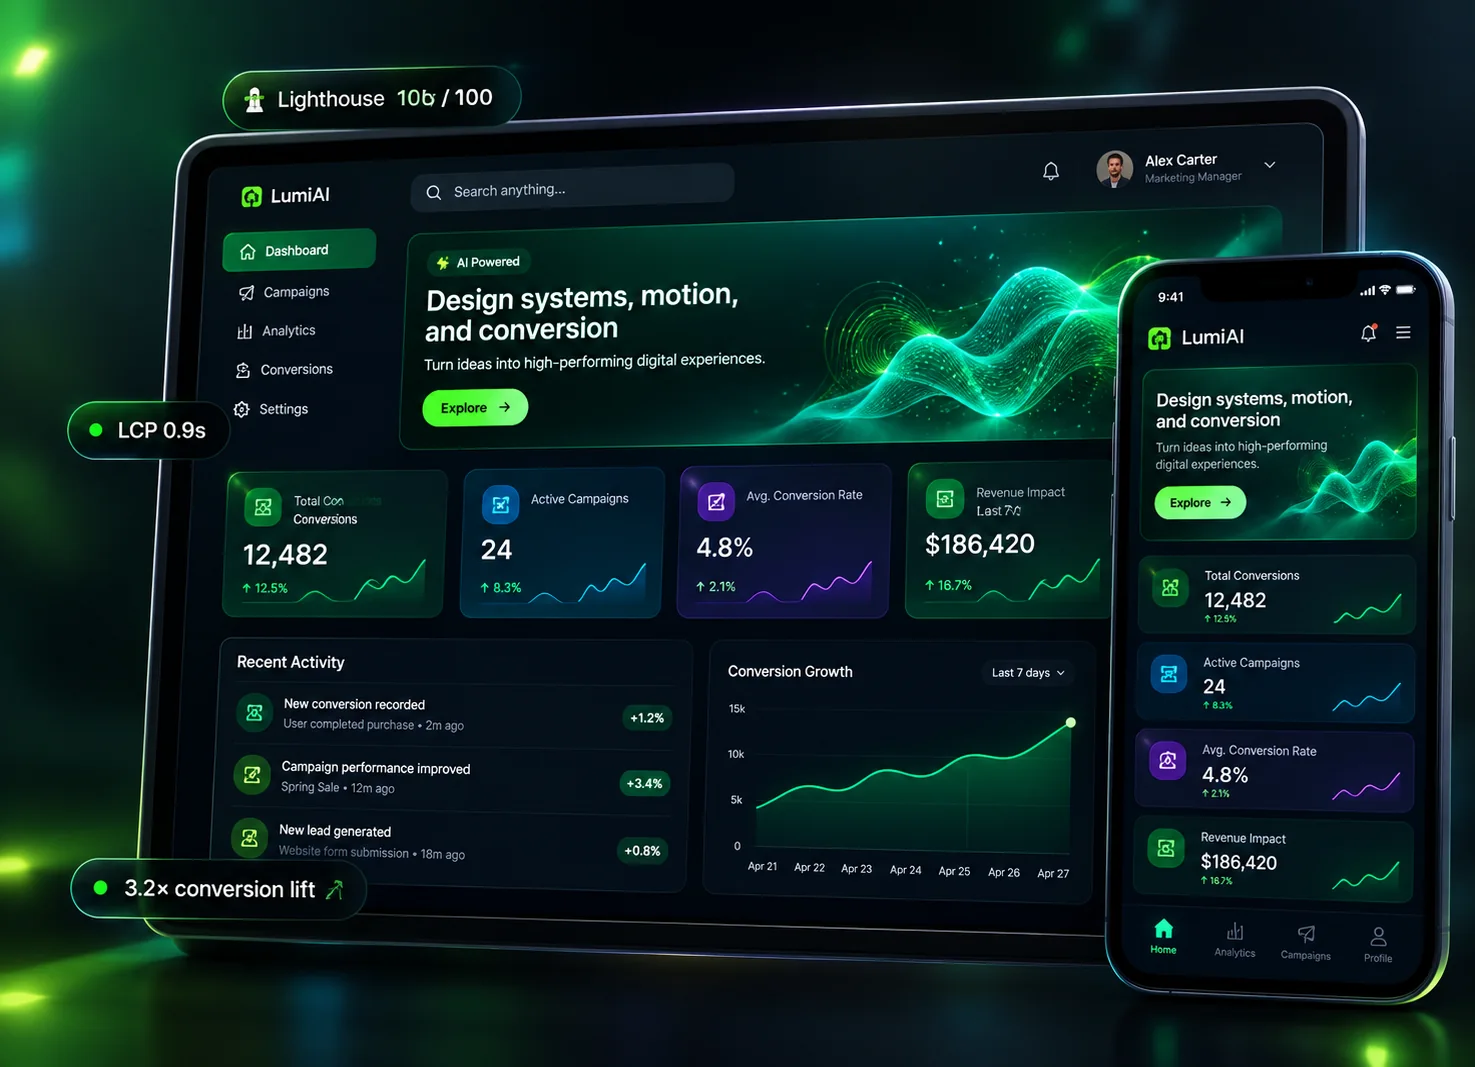
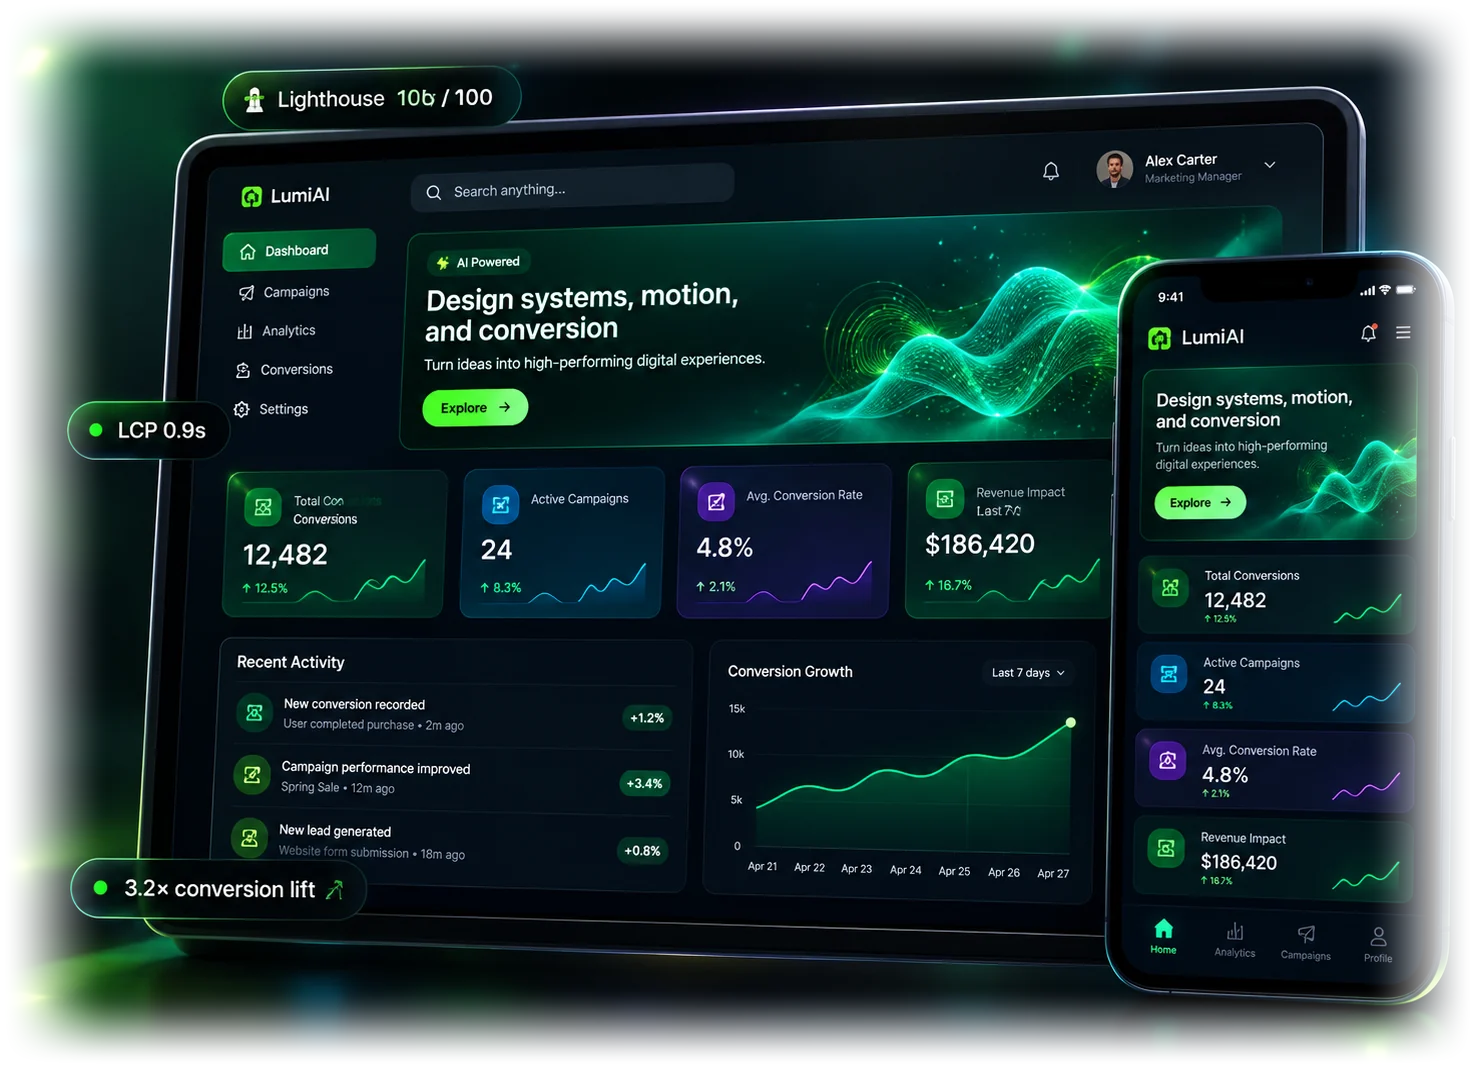
Remove trust badges, fix footer spacing, add website showcase

Changed region(s): [[0.0, 0.0, 1.0, 1.0]]

diff --git a/app/globals.css b/app/globals.css
@@ -3152,3 +3152,25 @@
 .dws-popup-form select option{
   background:#12140f; color:var(--bone);
 }
+
+  /* ---------- website-development: responsive showcase image ----------
+     The mockup is a transparent-edged PNG, so instead of sitting in a
+     visible card it dissolves into the page. The glow behind it extends
+     past the image bounds, which is what stops it reading as a pasted-in
+     rectangle. Transform-only float: compositor work, not main thread. */
+  .res-showcase{ position:relative; display:block; }
+  .res-showcase::before{
+    content:''; position:absolute; left:50%; top:54%;
+    width:86%; height:74%; transform:translate(-50%,-50%);
+    border-radius:50%; pointer-events:none; z-index:0;
+    background:radial-gradient(ellipse at center,
+      rgba(78,168,58,.30) 0%, rgba(79,209,255,.12) 45%, rgba(78,168,58,0) 72%);
+    filter:blur(58px);
+  }
+  .res-showcase img{
+    position:relative; z-index:1; width:100%; height:auto; display:block;
+    animation:resFloat 7.5s ease-in-out infinite;
+  }
+  @keyframes resFloat{ 0%,100%{ transform:translateY(0); } 50%{ transform:translateY(-12px); } }
+  @media(prefers-reduced-motion: reduce){ .res-showcase img{ animation:none; } }
+  @media(max-width:640px){ .res-showcase::before{ filter:blur(38px); } }

diff --git a/content/website-development.ts b/content/website-development.ts
@@ -37,8 +37,8 @@ export const HTML = `
         </div>
       </div>
 
-      <div class="res-rig-wrap">
-        <img src="/media/web-responsive-showcase.webp" alt="Responsive website design shown on desktop and mobile, with Lighthouse 100/100, LCP 0.9s and 3.2x conversion lift highlighted" width="1475" height="1067" style="width:100%;height:auto;display:block;border-radius:16px;" loading="lazy" decoding="async">
+      <div class="res-showcase">
+        <img src="/media/web-responsive-showcase.webp" alt="Responsive website design shown on desktop and mobile, with Lighthouse 100/100, LCP 0.9s and 3.2x conversion lift highlighted" width="1475" height="1067" loading="lazy" decoding="async">
       </div>
     </div>
   </div>
